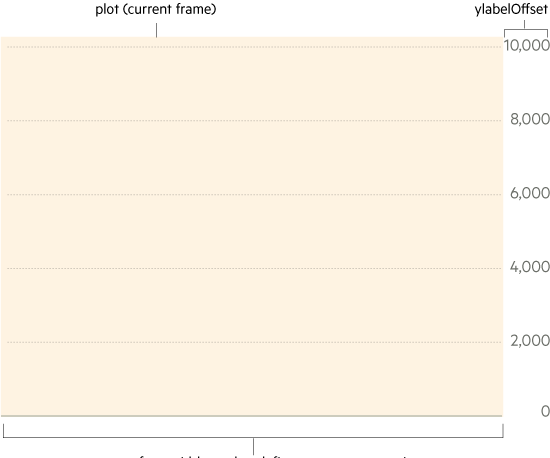
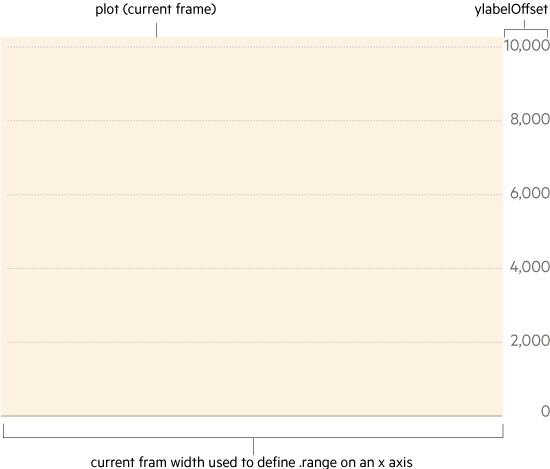
Update to image

diff --git a/README.md b/README.md
@@ -24,9 +24,9 @@ This appends a linear y axix to the current frame, returning the width of the ti
 
 ![alt tag](https://github.com/ft-interactive/g-yaxislinear/blob/master/images/initialPlot.png)
 
-This value is important a it should be used to amend the right or left hand margins of the current frame (depending on alignment) thus:
+This value should be used to amend the right or left hand margins of the current frame (depending on alignment) thus:
 
-so that the tick text is positioned on the outside of the current frame plot area. This way the width of the current fram can still be used to correctly define the .range() values of an x axis and subsequent plots would be correctly positioned on the axis.
+so that the tick text is positioned on the outside of the current frame plot area. This way the width of the current frame can still be used to correctly define the .range() values of an x axis.
 
 ![alt tag](https://github.com/ft-interactive/g-yaxislinear/blob/master/images/amendedPlot.png)
 
